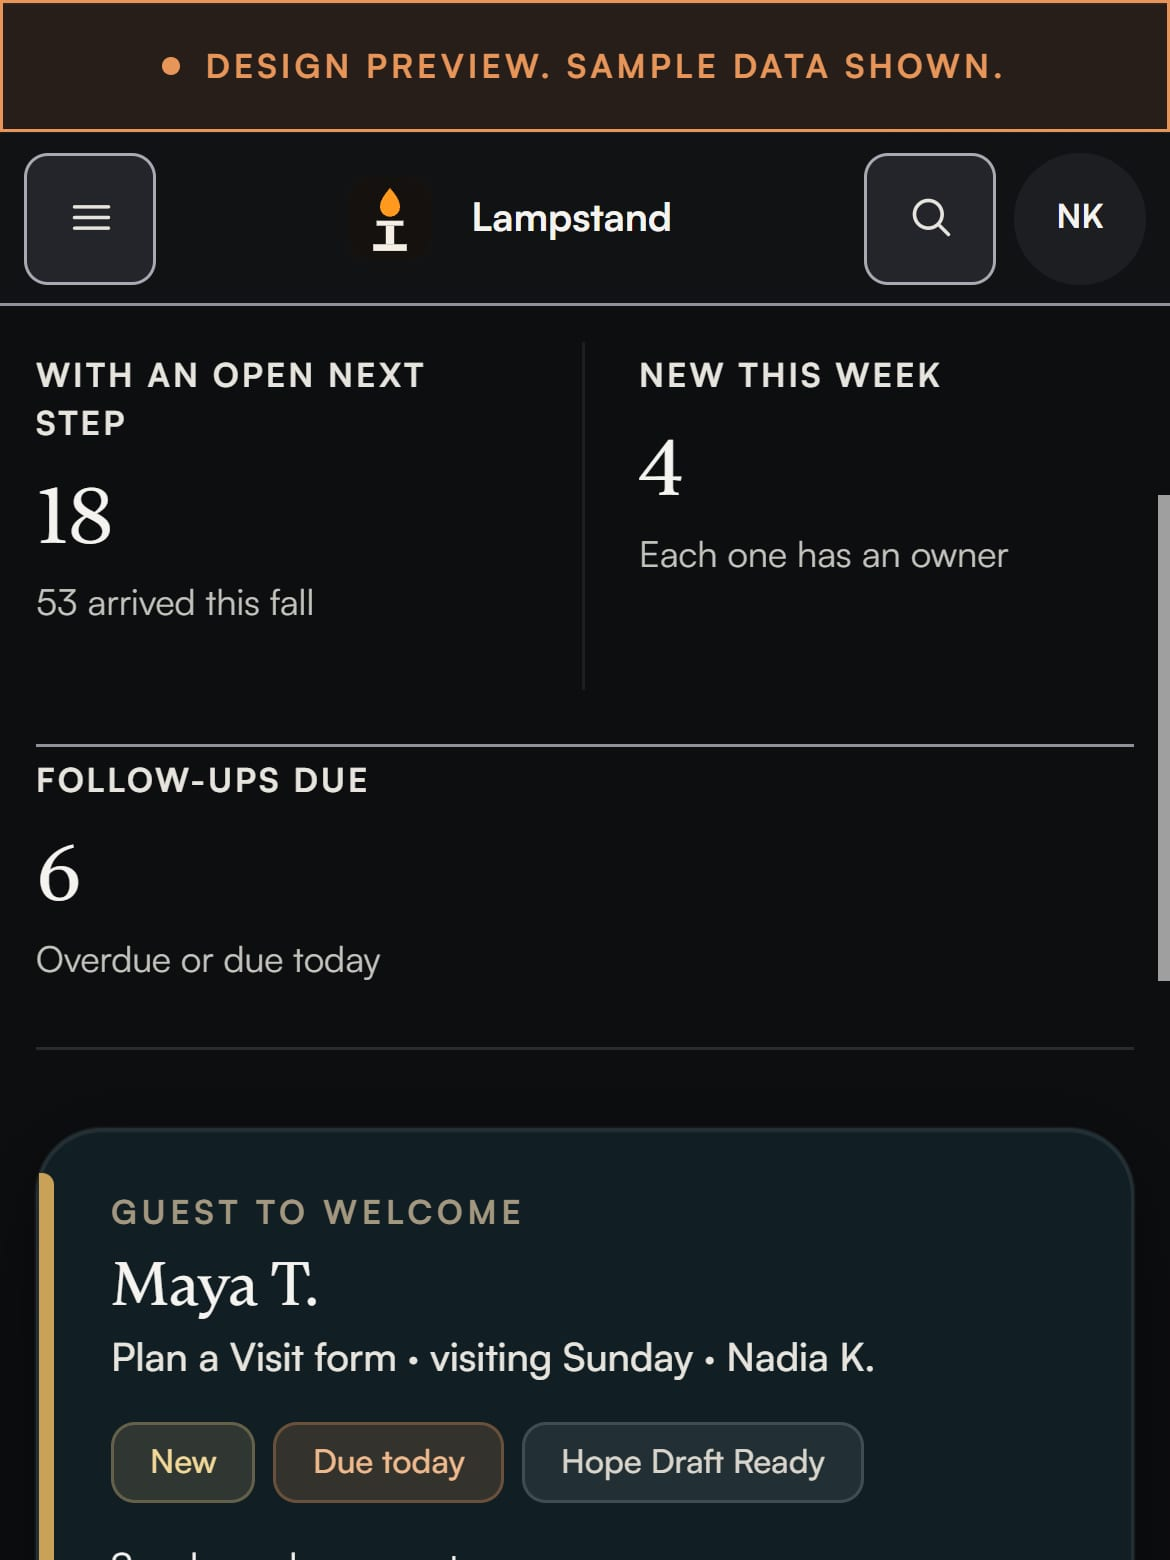
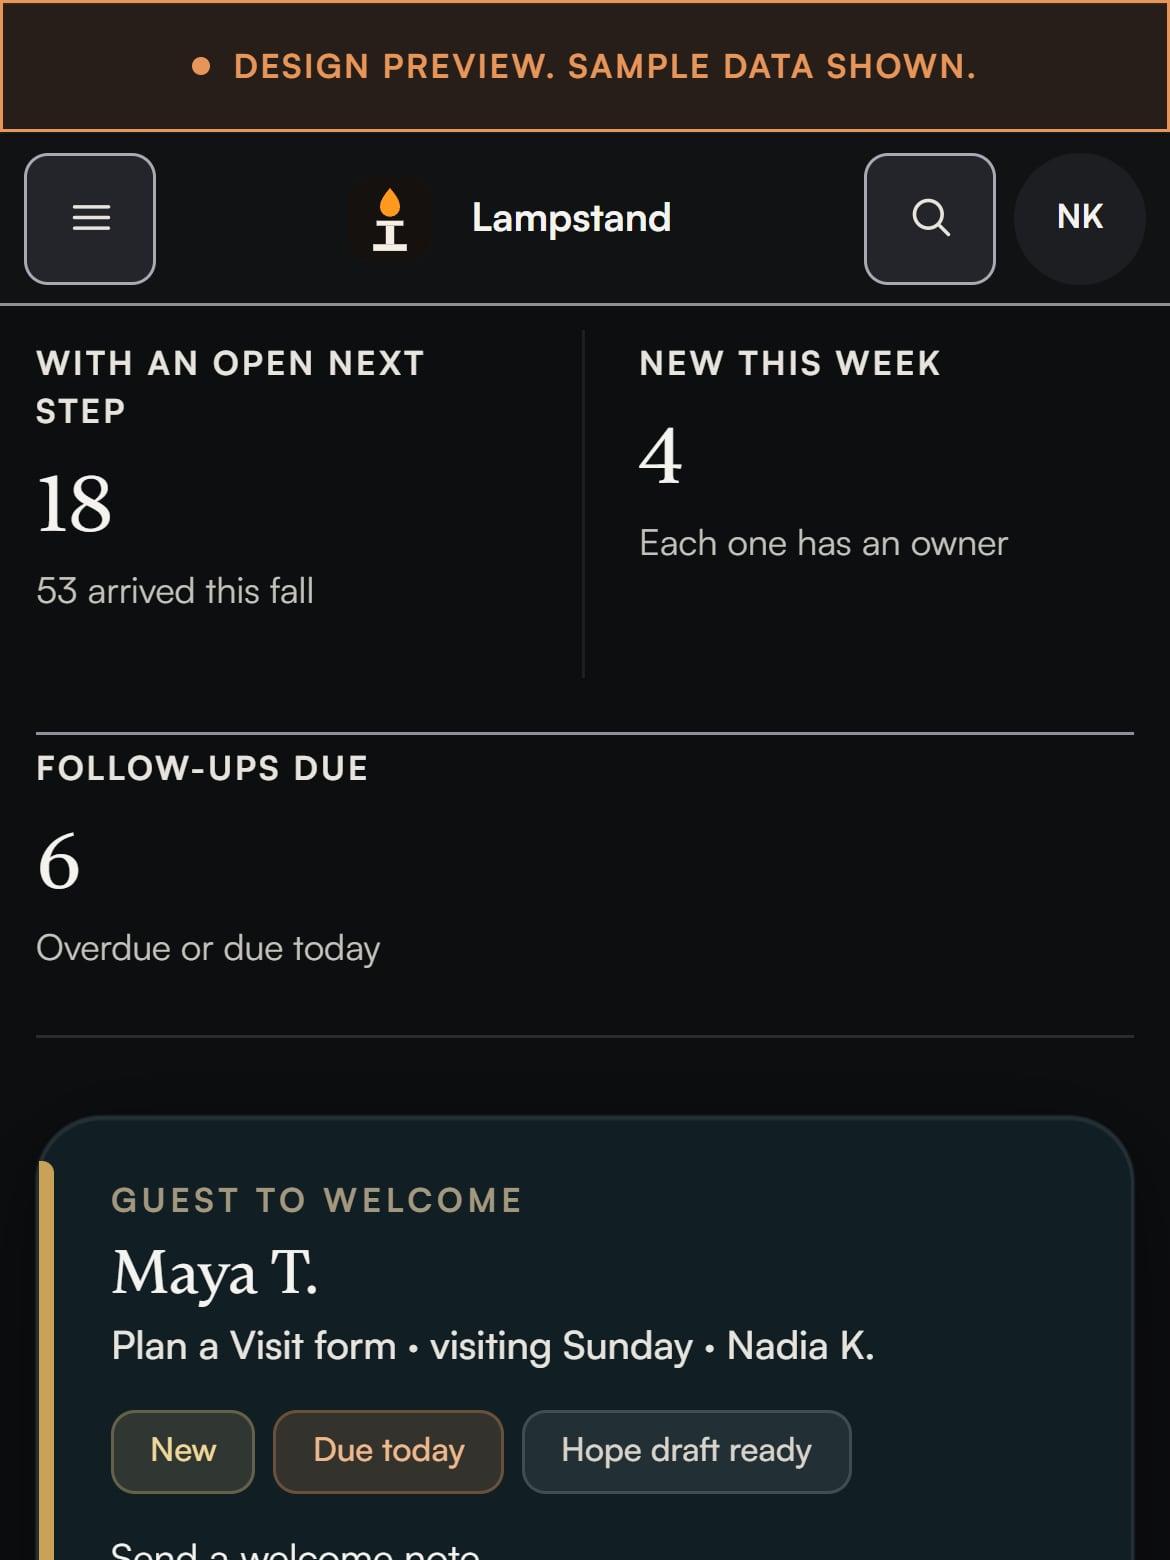
Retake the Ministry posters from the new demo, with the gold G
The eight stills on /ministry (four 1920 by 1080 frames and four 1170 by
1560 phone stills) came from the old demo, with the white two-tone G and
the old 01, 02, 03 plan switcher. They are retaken from the re-synced
public demo: Lampstand Church on Plus, the gold G on the sidebar and the
round Genesis button, and Care, Shepherd and Plus in the switcher. The
hero alt text now describes the new Today briefing.

diff --git a/lib/ministryPage.ts b/lib/ministryPage.ts
@@ -108,7 +108,7 @@ export const ministryHero = {
     "A guided film of Genesis Ministry: the church website, Hope, the guest pipeline, the care inbox and the member app, shown with a made up sample church.",
   /** Describes the poster image when it is shown without the film. Keep it true to the still. */
   stillAlt:
-    "The Today view for Lampstand Church, a made up sample church, in the light theme. Hope's briefing counts 4 new guests, 6 care items waiting and 4 drafts to approve, and the next move is Maya T., a first time guest visiting on Sunday.",
+    "The Today view for Lampstand Church, a made up sample church, in the light theme. Hope's briefing puts today's list in order and starts with Maya T., a first time guest visiting on Sunday, and 4 drafts wait for a person's judgment.",
   filmPlay: "Play the guided film",
   filmNote: "Sample church and sample people shown.",
 } as const;

diff --git a/README.md b/README.md
@@ -240,8 +240,9 @@ The source belongs to another team and is only read. The script:
 **The committed copy.** `public/ministry-demo/` is synced from genesis-ministry
 commit `1beb6da` (its `main` on November 22, 2026), exported with
 `git archive` as described below. It shows the three plans and their prices
-and the gold Genesis G. The posters in `public/video/ministry/` were taken
-from an earlier copy, `432d5cd`.
+and the gold Genesis G. The eight posters in `public/video/ministry/` (four
+1920 by 1080 stills and four 1170 by 1560 phone stills) were retaken from it,
+so they show the gold G and the plan switcher reads Care, Shepherd and Plus.
 
 `--with-growth-desk --out <folder>` makes a private copy with the Growth Desk,
 unedited, for looking at only. The folder must be outside `public/`.
